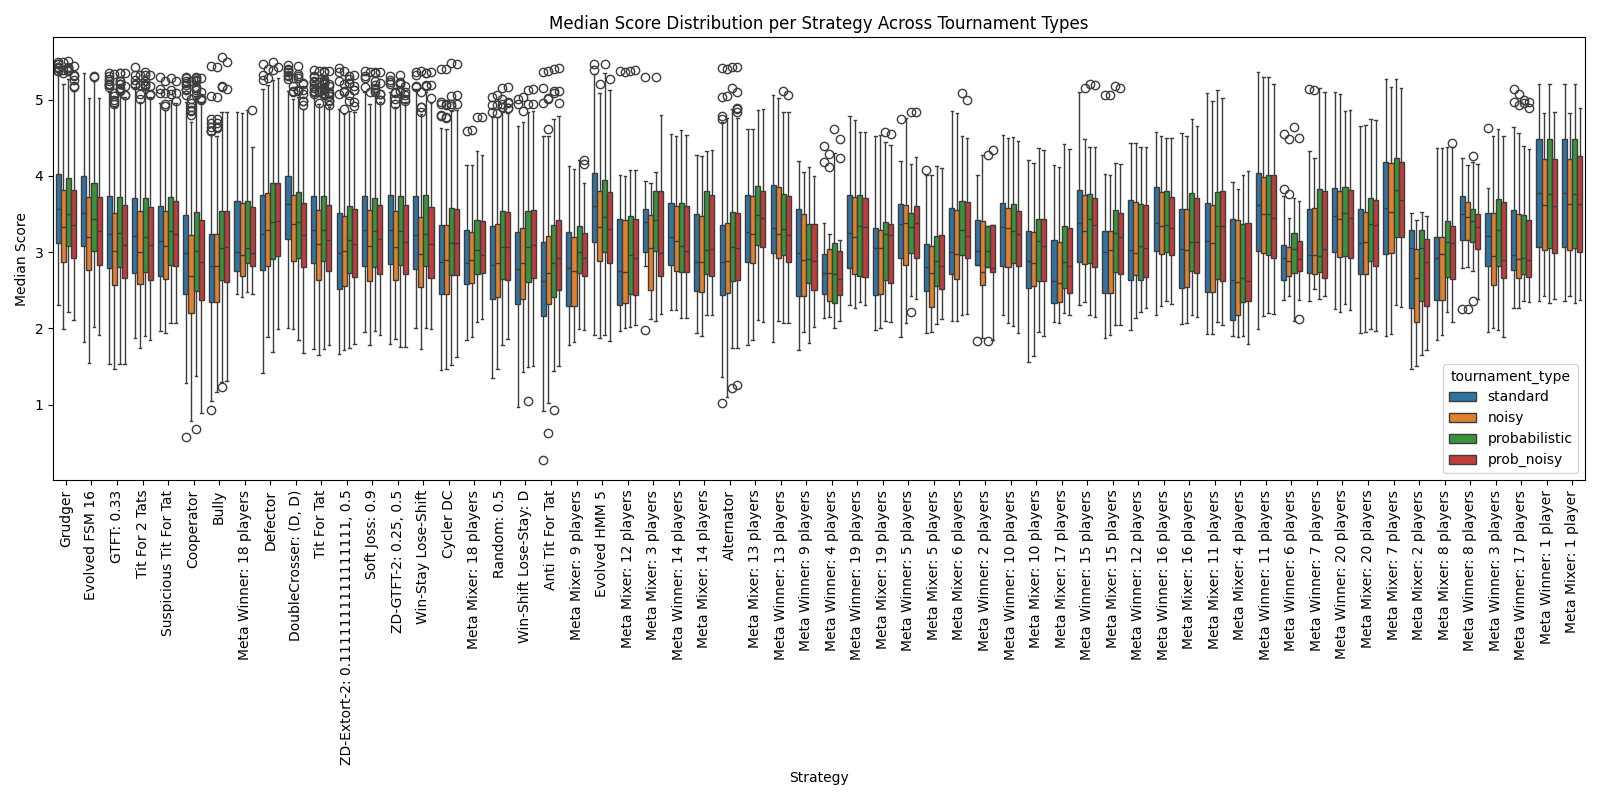
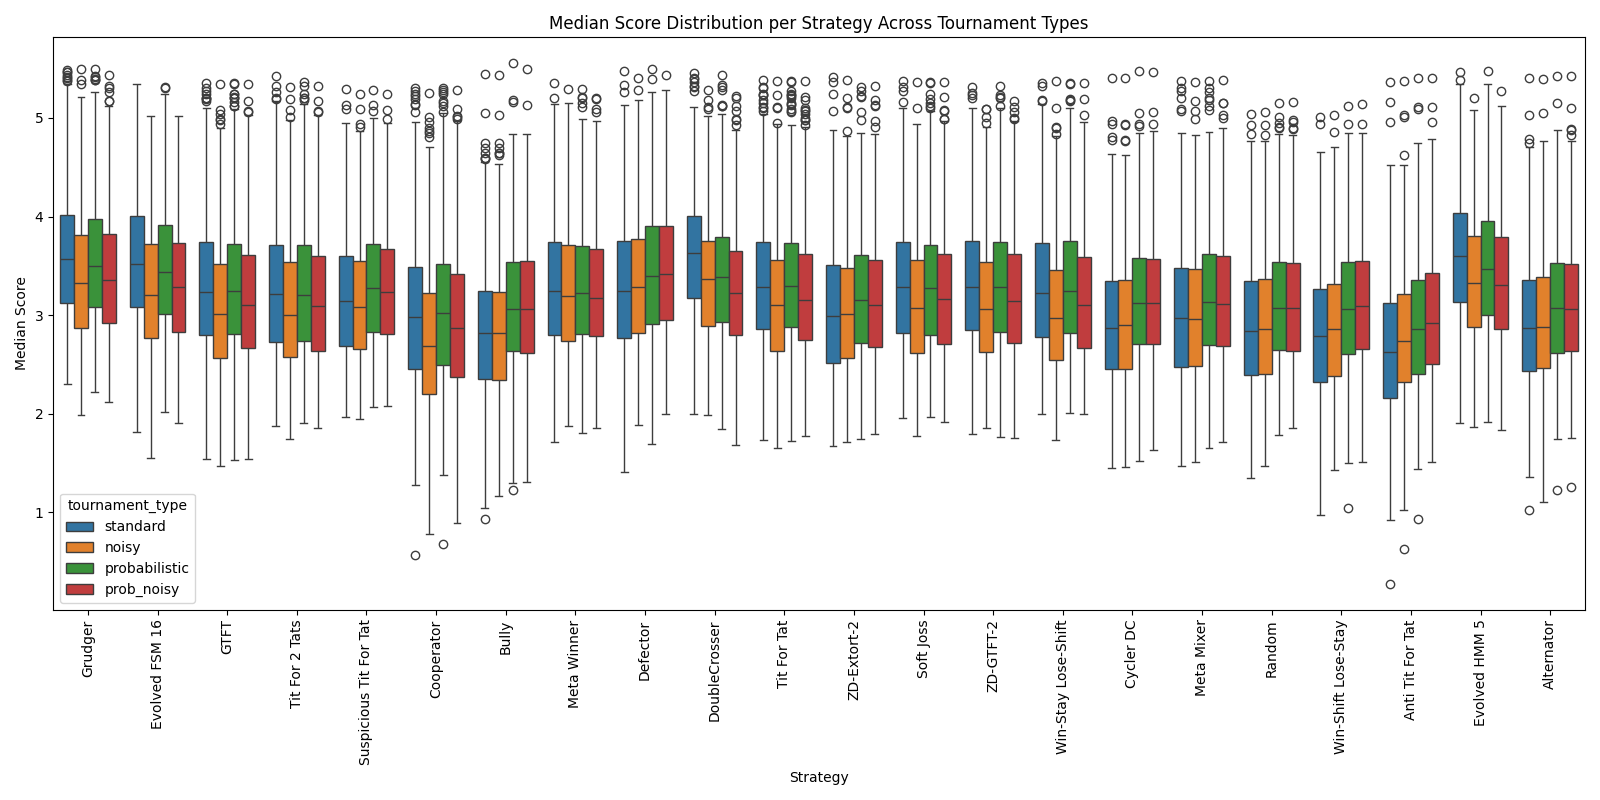
fixed the code treating Meta Mixer: 9 players and Meta Mixer: 12 players as different

diff --git a/visualize_results.py b/visualize_results.py
@@ -3,10 +3,15 @@ import matplotlib.pyplot as plt
 import seaborn as sns
 import os
 import scipy
+import re
 
 # List of result files to visualize
 types = ['standard', 'noisy', 'probabilistic', 'prob_noisy']
 dfs = []
+
+def extract_base_name(name):
+    # Remove anything after ':' or '(' or '[' (for meta strategies and parameterized names)
+    return re.split(r'[:\(\[]', name)[0].strip()
 
 for t in types:
     filename = os.path.join("csv", f"{t}_aggregated.csv")
@@ -15,11 +20,13 @@ for t in types:
         continue
     df = pd.read_csv(filename)
     df['tournament_type'] = t
+    df['BaseName'] = df['Name'].apply(extract_base_name)
     dfs.append(df)
     # Plot average score per strategy (original barplot)
-    if 'Name' in df.columns and 'Median_score' in df.columns:
+    if 'BaseName' in df.columns and 'Median_score' in df.columns:
         plt.figure(figsize=(12, 6))
-        avg_scores = df.groupby('Name')['Median_score'].mean().sort_values(ascending=False)
+        # Group by BaseName only, averaging across all runs/conditions for this tournament type
+        avg_scores = df.groupby('BaseName')['Median_score'].mean().sort_values(ascending=False)
         sns.barplot(x=avg_scores.index, y=avg_scores.values)
         plt.title(f"Average Median Score per Strategy - {t.capitalize()} Tournament")
         plt.ylabel("Average Median Score")
@@ -30,15 +37,17 @@ for t in types:
         plt.close()
         print(f"Saved plot: graphs/{t}_avg_scores.png")
     else:
-        print(f"'Name' or 'Median_score' column not found in {filename}, skipping plot.")
+        print(f"'BaseName' or 'Median_score' column not found in {filename}, skipping plot.")
 
 # Advanced analysis and comparison plots
 if dfs:
     all_data = pd.concat(dfs, ignore_index=True)
+    all_data['BaseName'] = all_data['Name'].apply(extract_base_name)
     # Boxplot: Score distribution per strategy per tournament type
-    if 'Name' in all_data.columns and 'Median_score' in all_data.columns and 'tournament_type' in all_data.columns:
+    if 'BaseName' in all_data.columns and 'Median_score' in all_data.columns and 'tournament_type' in all_data.columns:
         plt.figure(figsize=(16, 8))
-        sns.boxplot(data=all_data, x='Name', y='Median_score', hue='tournament_type')
+        # Group by BaseName and tournament_type, not by all columns
+        sns.boxplot(data=all_data, x='BaseName', y='Median_score', hue='tournament_type')
         plt.title("Median Score Distribution per Strategy Across Tournament Types")
         plt.ylabel("Median Score")
         plt.xlabel("Strategy")
@@ -49,9 +58,9 @@ if dfs:
         print("Saved plot: graphs/score_distribution_boxplot.png")
 
         # Grouped barplot: Mean median score per strategy per tournament type
-        mean_scores = all_data.groupby(['Name', 'tournament_type'])['Median_score'].mean().reset_index()
+        mean_scores = all_data.groupby(['BaseName', 'tournament_type'])['Median_score'].mean().reset_index()
         plt.figure(figsize=(16, 8))
-        sns.barplot(data=mean_scores, x='Name', y='Median_score', hue='tournament_type')
+        sns.barplot(data=mean_scores, x='BaseName', y='Median_score', hue='tournament_type')
         plt.title("Mean Median Score per Strategy Across Tournament Types")
         plt.ylabel("Mean Median Score")
         plt.xlabel("Strategy")
